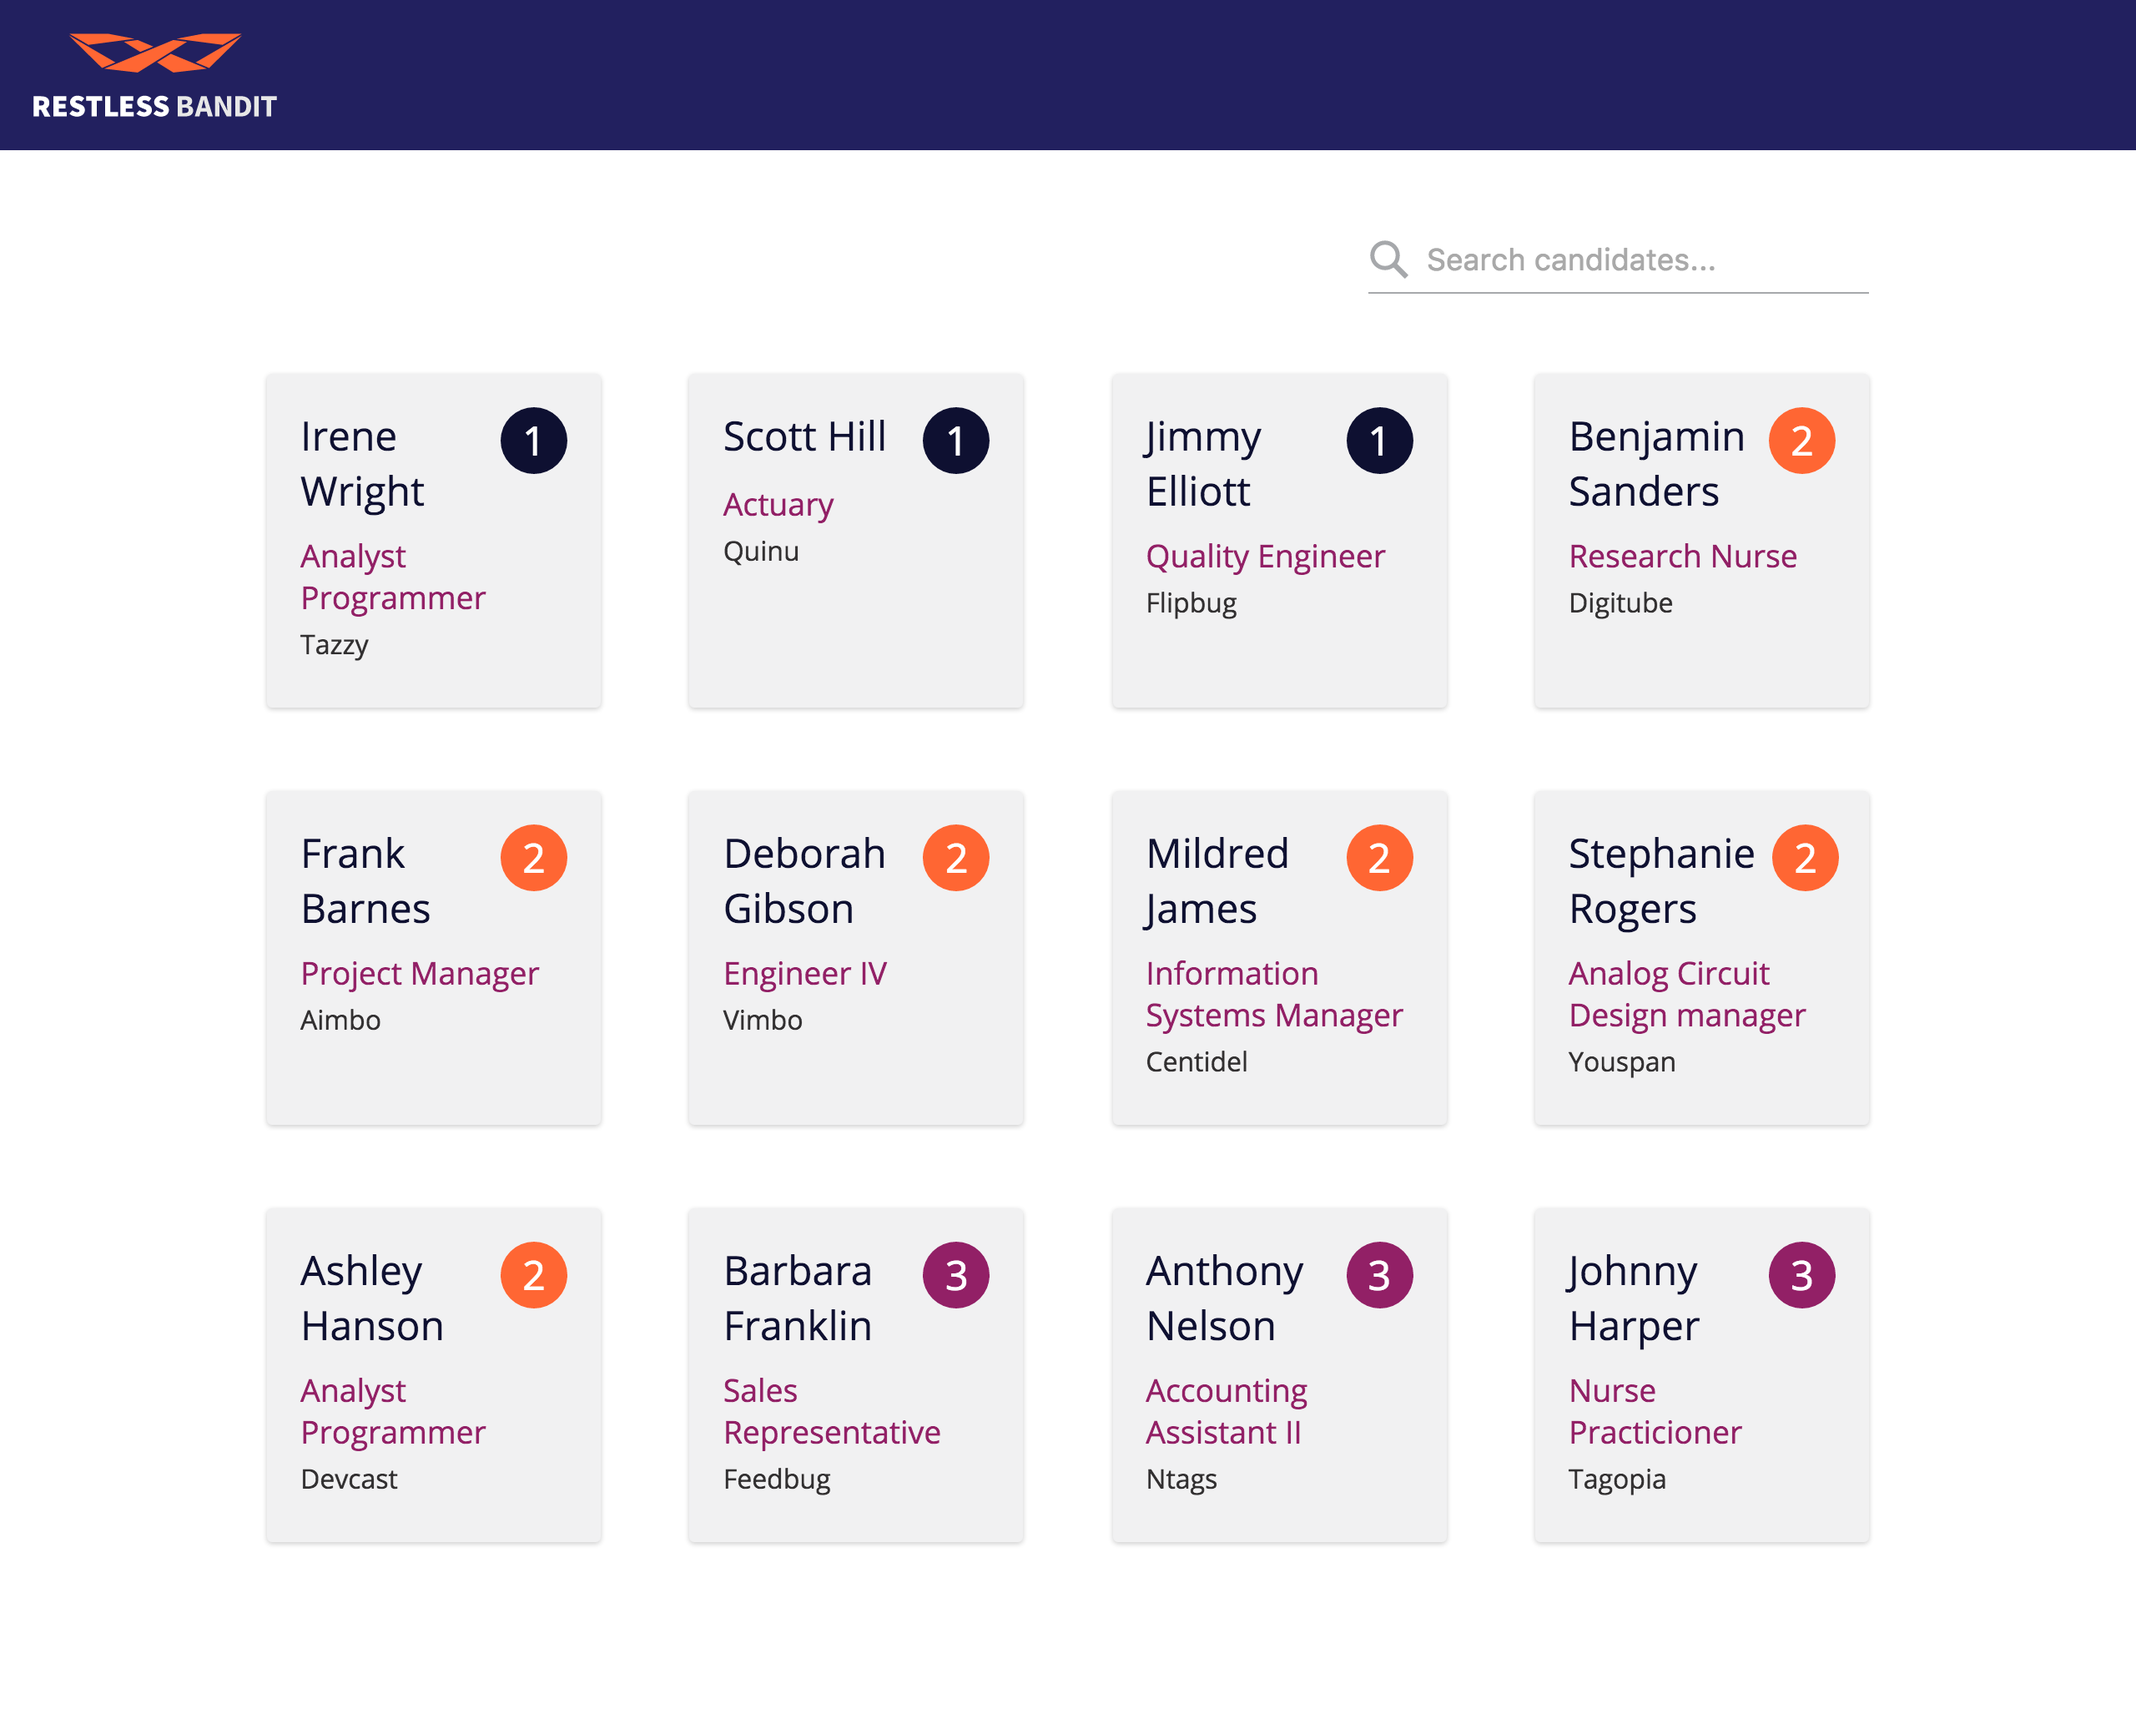
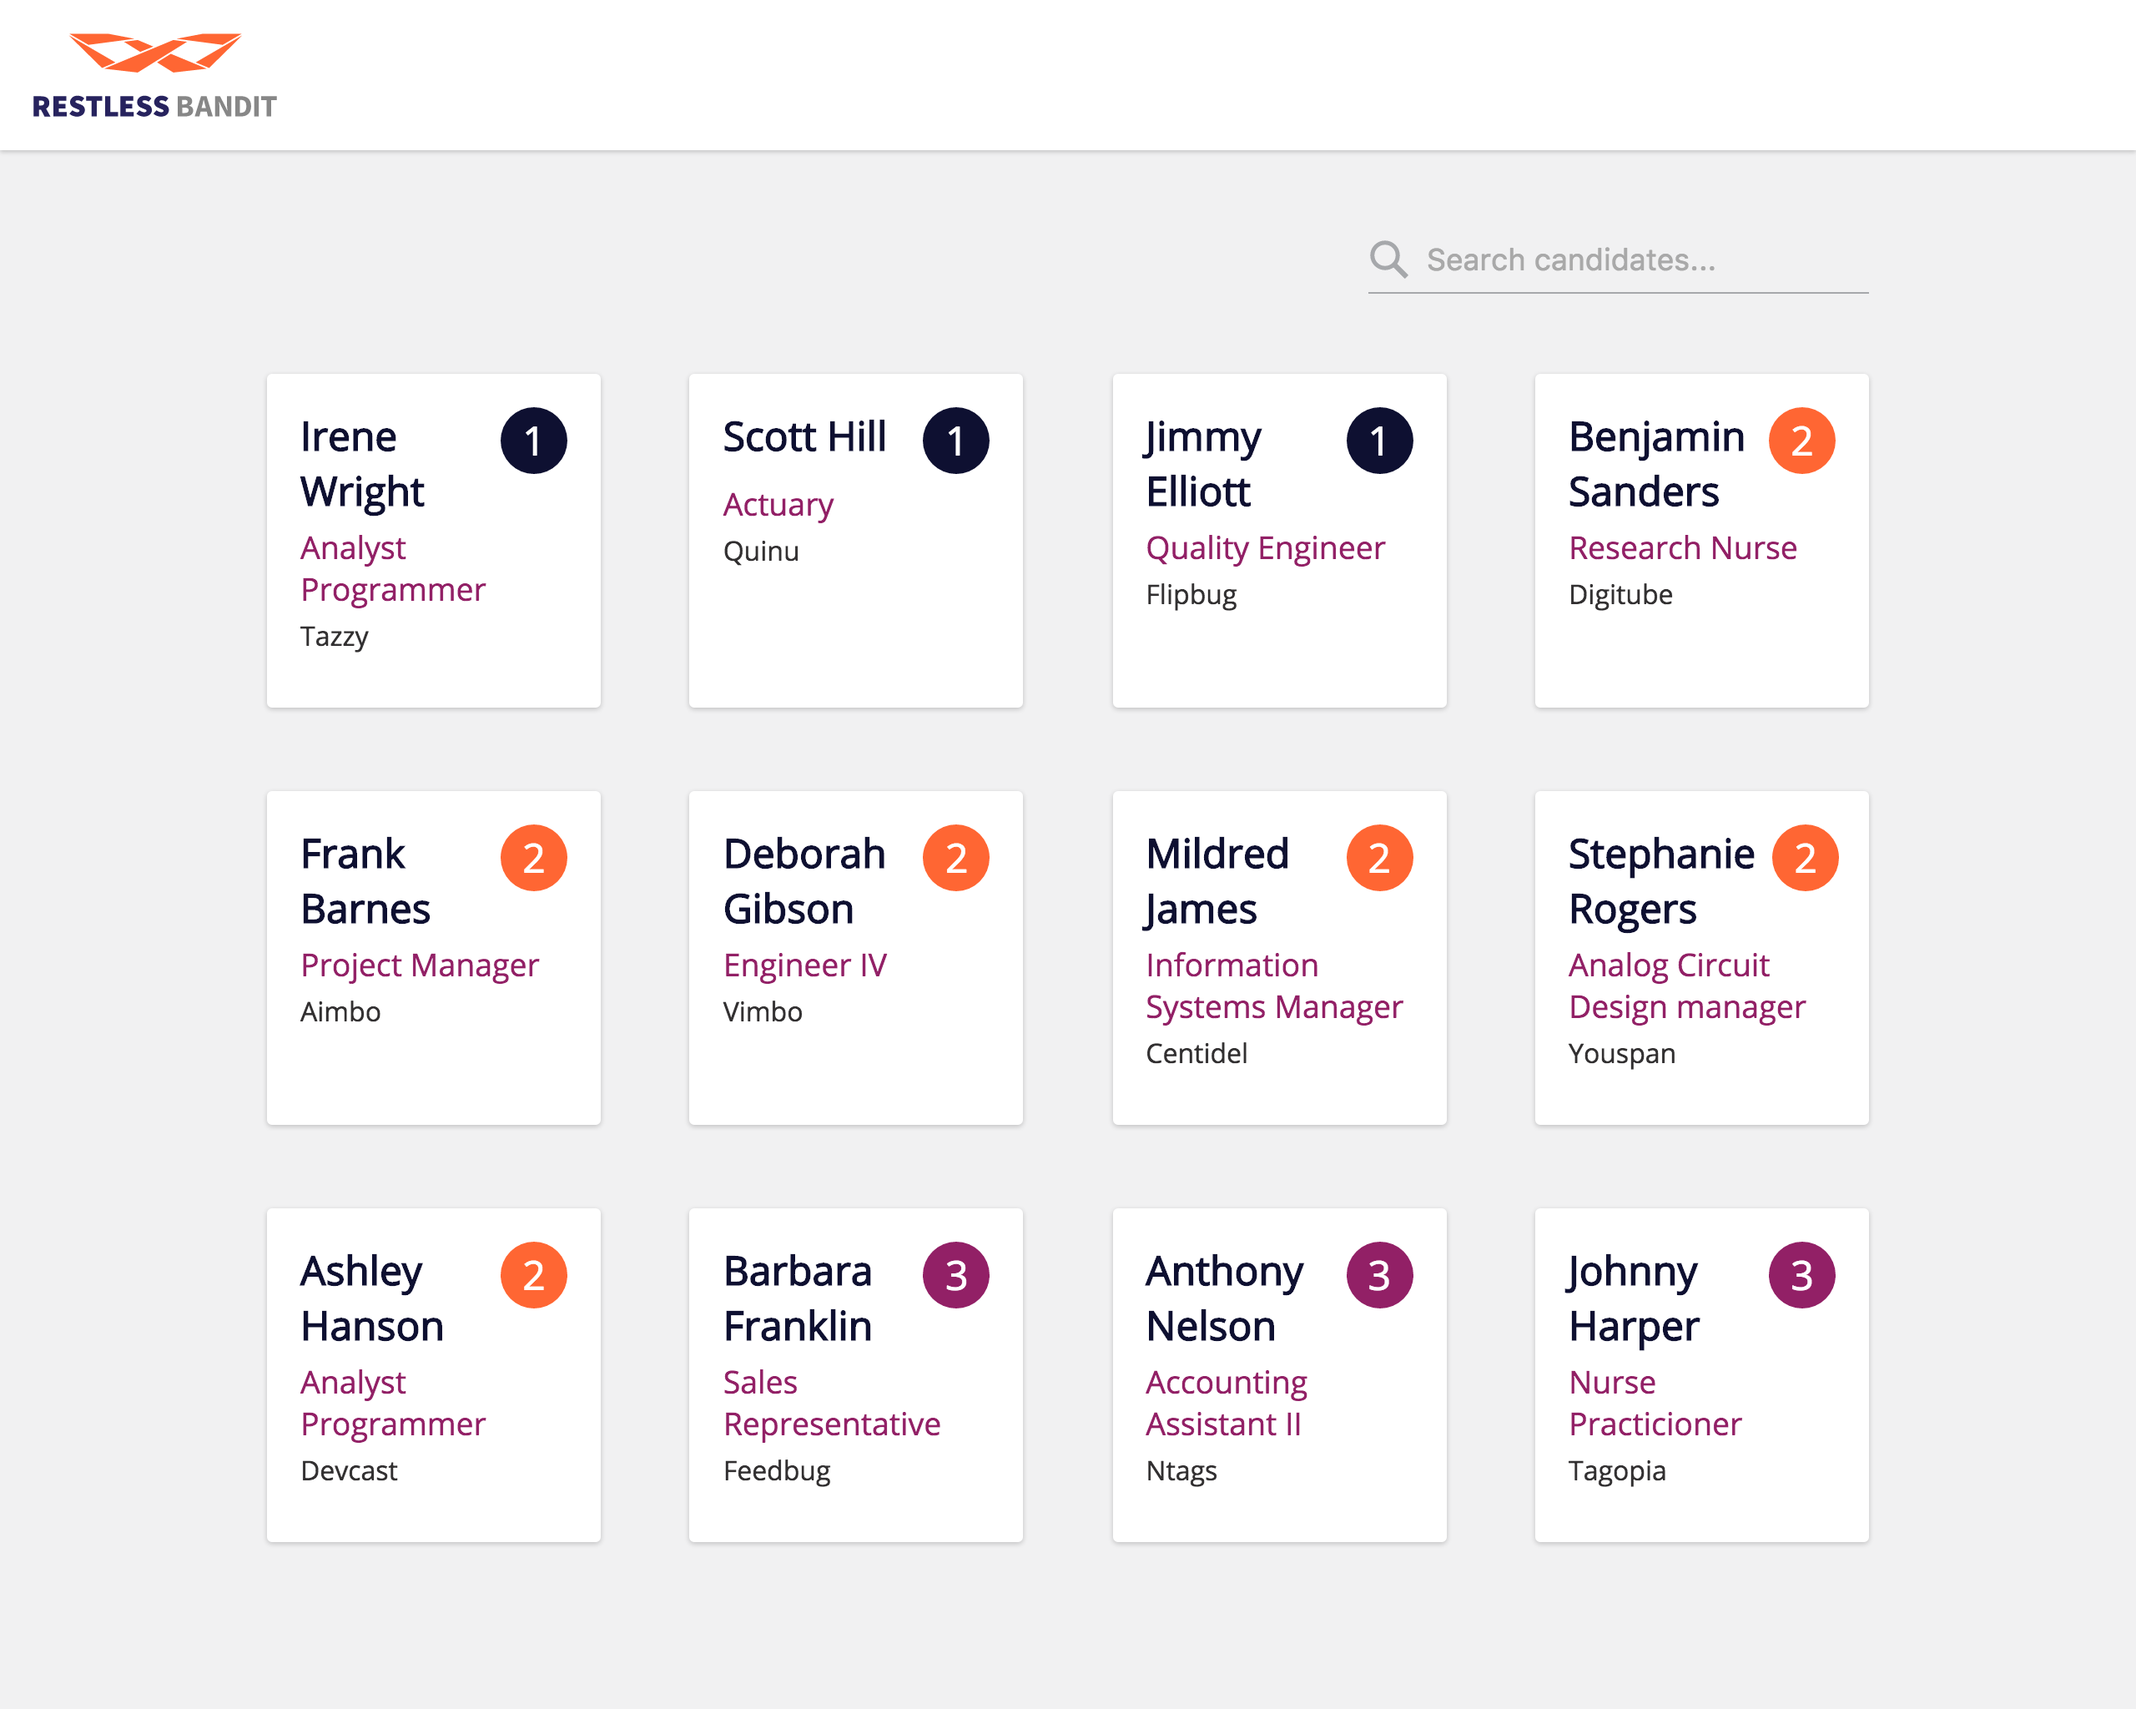
Update design

diff --git a/src/App.css b/src/App.css
@@ -1,11 +1,13 @@
 .App {
+  background-color: #f1f1f2;
   font-family: 'Open Sans', sans-serif;
 }
 
 .App-header {
-  background-color: #22205f;
+  background-color: #fff;
   height: 50px;
   padding: 20px;
+  box-shadow: 0 1px 3px rgba(0, 0, 0, 0.2);
 }
 
 .App-logo {
